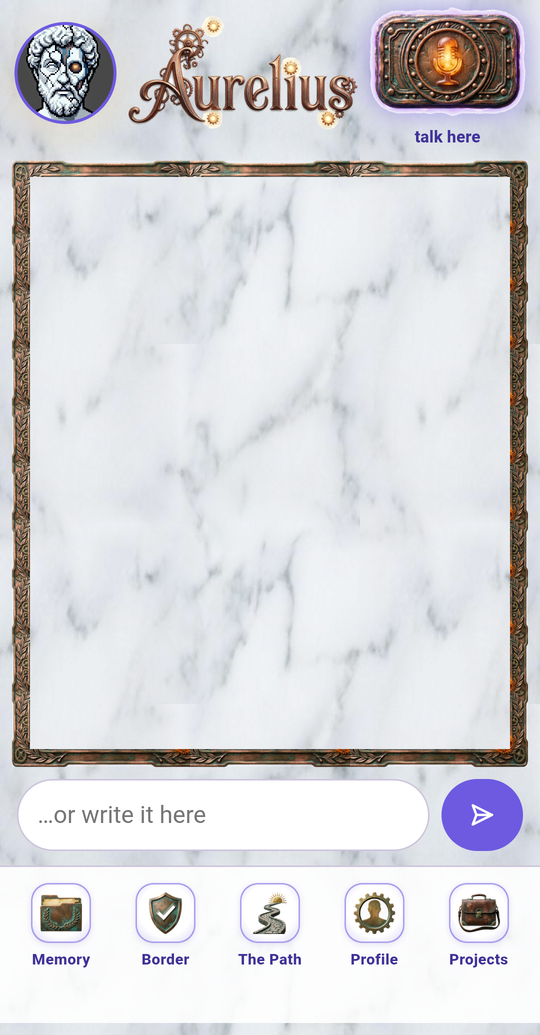
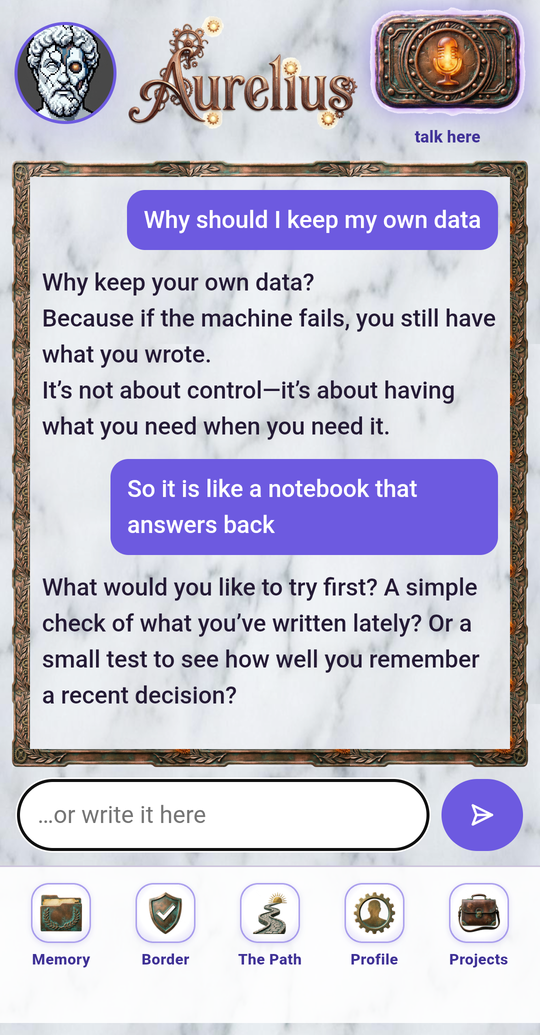
capturas con conversación de verdad · y banderas en el README
Las tres capturas del README enseñaban la cara vacía, que es lo peor que puede
enseñar algo cuyo argumento es que recuerda. La del tablero lleva ahora un
intercambio real generado por el modelo del Doogee — pregunta, respuesta,
réplica, y Aurelius devolviendo la pregunta, que es su carácter — no un texto
puesto a mano para la foto.

El README emparejaba cada párrafo inglés con su español sin marca ninguna: quien
solo lee uno de los dos tenía que adivinar dónde empieza el suyo. Cada bloque
lleva su bandera, incluidas las dos listas, donde va en su propia línea porque
dentro del primer punto se leería como parte de la frase.

diff --git a/README.md b/README.md
@@ -5,9 +5,9 @@
 
 # Aurelius
 
-**Your memory, in one file you can carry. It starts empty, and says so.**
+🇬🇧 **Your memory, in one file you can carry. It starts empty, and says so.**
 
-**Tu memoria, en un fichero que puedes llevarte. Empieza vacía, y lo dice.**
+🇪🇸 **Tu memoria, en un fichero que puedes llevarte. Empieza vacía, y lo dice.**
 
 🇪🇸 Español  ·  🇬🇧 English
 
@@ -23,12 +23,12 @@
 <img src="assets/pantalla-telon-en.png" width="240"
      alt="The Aurelius opening screen on a phone: on a white marble background, a large circle holds the pixel-art bust in its final frame, the marble face broken open to show dark machinery, one lit amber eye and loose fragments floating beside the head. Below it, the name Aurelius in ornate bronze letters with small gears.">
 <img src="assets/pantalla-tablero-en.png" width="240"
-     alt="The dashboard: a row with the bust, the bronze Aurelius name and a bronze plate button with a microphone, the words 'talk here' under it in violet. Below, a tall marble slate framed in bronze holds the conversation, then a text field and a bar of five icons: Memory, Border, The Path, Profile, Projects.">
+     alt="The dashboard mid-conversation: a row holds the bust, the bronze Aurelius name and a bronze plate button with a microphone, the words 'talk here' under it in violet. On the marble slate below, framed in bronze, the person asks why they should keep their own data; Aurelius answers that if the machine fails you still have what you wrote, and that it is not about control but about having what you need when you need it; the person replies that it is like a notebook that answers back, and Aurelius asks what they would like to try first. Under the slate, a text field and a bar of five icons: Memory, Border, The Path, Profile, Projects.">
 <img src="assets/pantalla-perfil-en.png" width="240"
      alt="The Profile panel: fields for what to call you, what interests you and language, plus a box headed 'How you want to be spoken to' holding instructions that are sent to Aurelius on every turn.">
 <br>
-<sub>It wakes from the stone, then hands you the slate — and it speaks the language your memory declares.<br>
-Despierta de la piedra y te pasa la pizarra — y habla el idioma que declara tu memoria.</sub>
+<sub>🇬🇧 It wakes from the stone, then hands you the slate — and it speaks the language your memory declares.<br>
+🇪🇸 Despierta de la piedra y te pasa la pizarra — y habla el idioma que declara tu memoria.</sub>
 </div>
 
 ---
@@ -40,21 +40,23 @@ Despierta de la piedra y te pasa la pizarra — y habla el idioma que declara tu
 | **Computer** | One file, double-click. → [INSTALL_PC.md](INSTALL_PC.md) | Un fichero, doble clic. → [INSTALACION_PC.md](INSTALACION_PC.md) |
 | **Android** | Termux, then an icon on your home screen. → [INSTALL_ANDROID.md](INSTALL_ANDROID.md) | Termux, y luego un icono en la pantalla de inicio. → [INSTALACION_ANDROID.md](INSTALACION_ANDROID.md) |
 
-There is no account, no sign-up and no server. Nothing to cancel later.
+🇬🇧 There is no account, no sign-up and no server. Nothing to cancel later.
 
-No hay cuenta, ni registro, ni servidor. Nada que cancelar después.
+🇪🇸 No hay cuenta, ni registro, ni servidor. Nada que cancelar después.
 
 ---
 
 ## What it does / Qué hace
 
-You write **"my daughter is called Ana"** and Aurelius keeps it. Later you ask
+🇬🇧 You write **"my daughter is called Ana"** and Aurelius keeps it. Later you ask
 **"what is my daughter called?"** and it answers **Ana** — because you told it,
 not because it guessed.
 
-Escribes **«mi hija se llama Ana»** y Aurelius lo guarda. Más tarde preguntas
+🇪🇸 Escribes **«mi hija se llama Ana»** y Aurelius lo guarda. Más tarde preguntas
 **«¿cómo se llama mi hija?»** y responde **Ana** — porque se lo dijiste tú, no
 porque lo haya deducido.
+
+🇬🇧
 
 - **Remembers what you tell it, in your words.** Not a summary of them.
 - **Never sends your data anywhere.** No cloud, no telemetry, no account.
@@ -62,23 +64,27 @@ porque lo haya deducido.
 - **Works offline**, on your machine, with no graphics card.
 - **Starts empty, says so, and helps you fill it.**
 
+🇪🇸
+
 - **Recuerda lo que le dices, con tus palabras.** No un resumen de ellas.
 - **No manda tus datos a ningún sitio.** Sin nube, sin telemetría, sin cuenta.
 - **Pregunta antes de hacer nada destructivo.** Prefiere ir lento a arrepentirse.
 - **Funciona sin conexión**, en tu máquina, sin tarjeta gráfica.
 - **Empieza vacío, lo dice, y te ayuda a llenarlo.**
 
-Your whole memory is one file: `~/.aurelius/memory.db`. Copy it to a USB stick
+🇬🇧 Your whole memory is one file: `~/.aurelius/memory.db`. Copy it to a USB stick
 and your memory comes with you. Open it on a machine with no cable plugged in
 and it says exactly the same thing.
 
-Toda tu memoria es un fichero: `~/.aurelius/memory.db`. Cópialo a un lápiz USB
+🇪🇸 Toda tu memoria es un fichero: `~/.aurelius/memory.db`. Cópialo a un lápiz USB
 y tu memoria se va contigo. Ábrelo en una máquina sin un solo cable conectado y
 dice exactamente lo mismo.
 
 ---
 
 ## What it does NOT do / Qué NO hace
+
+🇬🇧
 
 - **It does not search — yet.** With few memories, search is a solution to a
   problem you do not have.
@@ -88,6 +94,8 @@ dice exactamente lo mismo.
 - **It does not talk without a brain installed.** Without one it asks and
   remembers, but it does not converse — and it tells you so instead of
   pretending.
+
+🇪🇸
 
 - **No busca — todavía.** Con pocos recuerdos, buscar es la solución a un
   problema que no tienes.
@@ -101,22 +109,22 @@ dice exactamente lo mismo.
 
 ## Security / Seguridad
 
-The fuse inspects what the model writes **before you see it**. It matches
+🇬🇧 The fuse inspects what the model writes **before you see it**. It matches
 structural shapes, not forbidden words.
 
-El fusible inspecciona lo que el modelo escribe **antes de que tú lo veas**.
+🇪🇸 El fusible inspecciona lo que el modelo escribe **antes de que tú lo veas**.
 Reconoce formas estructurales, no palabras prohibidas.
 
-It does **not** resolve variables, decode base64, or follow indirections. It
+🇬🇧 It does **not** resolve variables, decode base64, or follow indirections. It
 slows things down; it does not stand in for you. **The last check is yours.**
 
-**No** resuelve variables, no descodifica base64 y no sigue indirecciones.
+🇪🇸 **No** resuelve variables, no descodifica base64 y no sigue indirecciones.
 Frena; no te sustituye. **La última comprobación la haces tú.**
 
-The exact list of what it catches and what it misses is in
+🇬🇧 The exact list of what it catches and what it misses is in
 [TECHNICAL.md](TECHNICAL.md) — written out, not summarised.
 
-La lista exacta de lo que caza y lo que se le escapa está en
+🇪🇸 La lista exacta de lo que caza y lo que se le escapa está en
 [TECHNICAL.md](TECHNICAL.md) — escrita entera, no resumida.
 
 ---
@@ -129,9 +137,9 @@ cd aurelius
 python3 aurelius.py
 ```
 
-That is the whole installation. No package, no service, no account.
+🇬🇧 That is the whole installation. No package, no service, no account.
 
-Esa es la instalación entera. Sin paquete, sin servicio, sin cuenta.
+🇪🇸 Esa es la instalación entera. Sin paquete, sin servicio, sin cuenta.
 
 ```
 python3 aurelius.py --charla        # talk, if a brain is installed
@@ -139,17 +147,17 @@ bin/aurelius-servicio arranca       # the web face
 bin/pruebas                         # the whole test run
 ```
 
-Python 3.10 or newer, and its standard library. Nothing else — which is also
+🇬🇧 Python 3.10 or newer, and its standard library. Nothing else — which is also
 why the desktop build fits in 14 MB instead of 400.
 
-Python 3.10 o más nuevo, y su biblioteca estándar. Nada más — que es también
+🇪🇸 Python 3.10 o más nuevo, y su biblioteca estándar. Nada más — que es también
 por lo que el ejecutable de escritorio cabe en 14 MB y no en 400.
 
-**Deeper:** [TECHNICAL.md](TECHNICAL.md) — the fuse's real limits, the measured
+🇬🇧 **Deeper:** [TECHNICAL.md](TECHNICAL.md) — the fuse's real limits, the measured
 numbers with the machine that produced them, the Python versions actually run,
 and how to verify any of it yourself.
 
-**Más a fondo:** [TECHNICAL.md](TECHNICAL.md) — los límites reales del fusible,
+🇪🇸 **Más a fondo:** [TECHNICAL.md](TECHNICAL.md) — los límites reales del fusible,
 las cifras medidas con la máquina que las produjo, las versiones de Python
 realmente probadas, y cómo comprobar cualquiera de ellas por tu cuenta.
 
@@ -157,9 +165,9 @@ realmente probadas, y cómo comprobar cualquiera de ellas por tu cuenta.
 
 ## Licence / Licencia
 
-The text that governs is in the files, not in this summary.
+🇬🇧 The text that governs is in the files, not in this summary.
 
-El texto que manda está en los ficheros, no en este resumen.
+🇪🇸 El texto que manda está en los ficheros, no en este resumen.
 
 - **Code / Código** — MIT · [LICENSE](LICENSE)
 - **Prose, lore and sprites / Prosa, lore y sprites** — CC BY-SA 4.0 ·
@@ -169,7 +177,7 @@ El texto que manda está en los ficheros, no en este resumen.
 
 ## Contact / Contacto
 
-Issues and pull requests on GitHub. Security findings: [SECURITY.md](SECURITY.md).
+🇬🇧 Issues and pull requests on GitHub. Security findings: [SECURITY.md](SECURITY.md).
 
-Incidencias y pull requests en GitHub. Hallazgos de seguridad:
+🇪🇸 Incidencias y pull requests en GitHub. Hallazgos de seguridad:
 [SECURITY.md](SECURITY.md).
